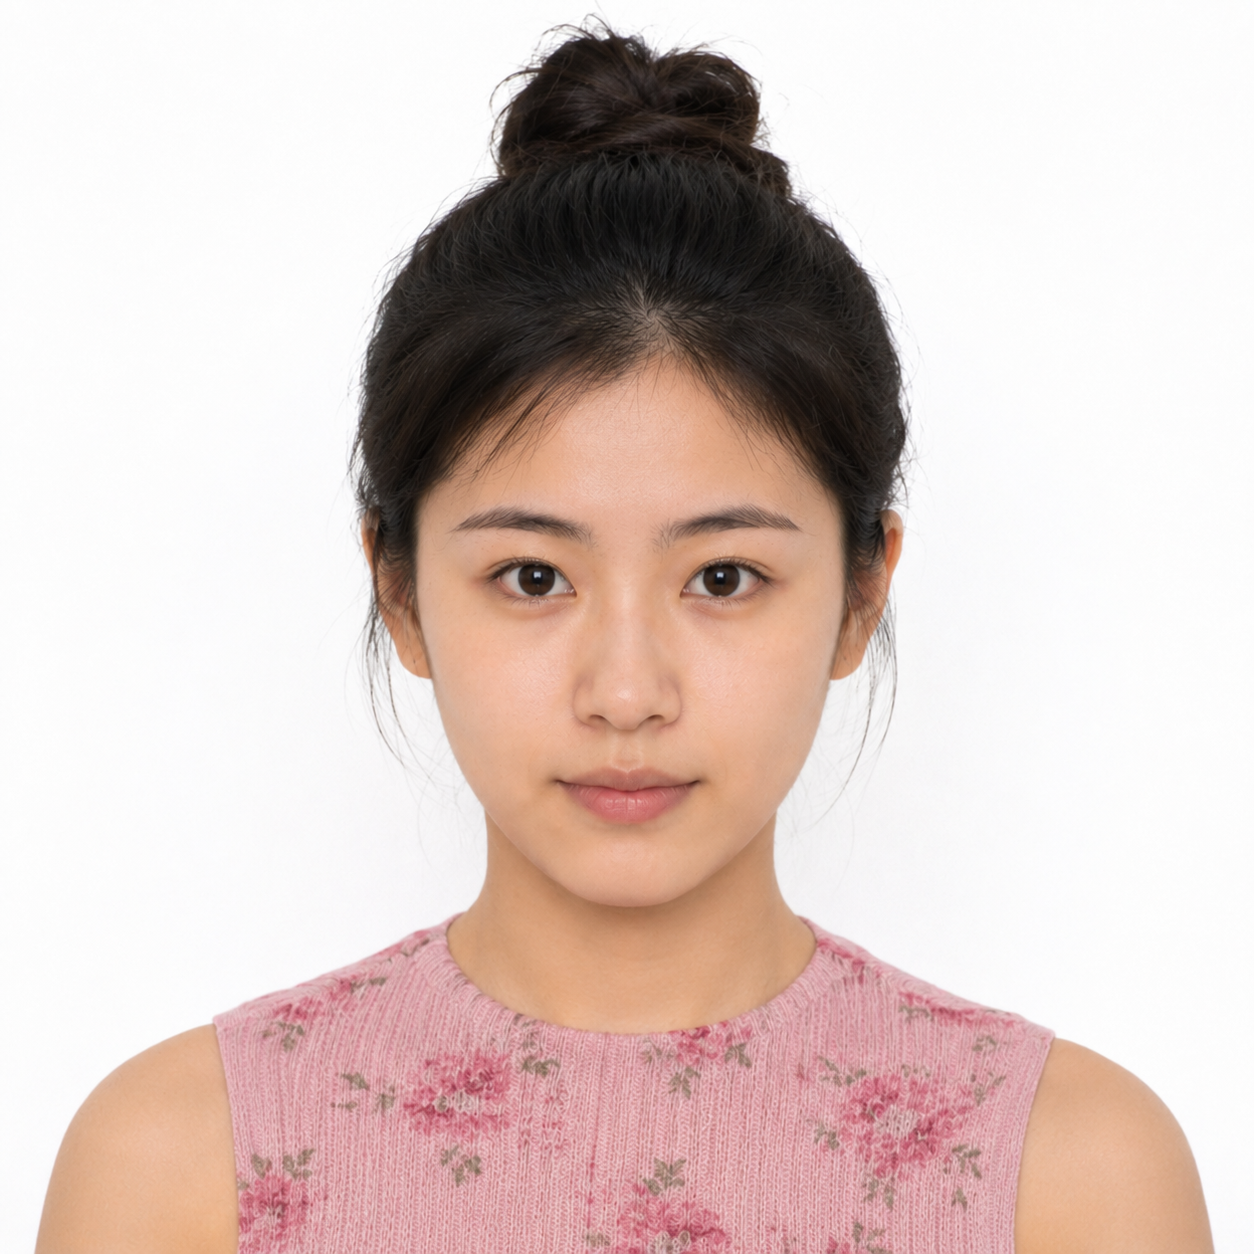
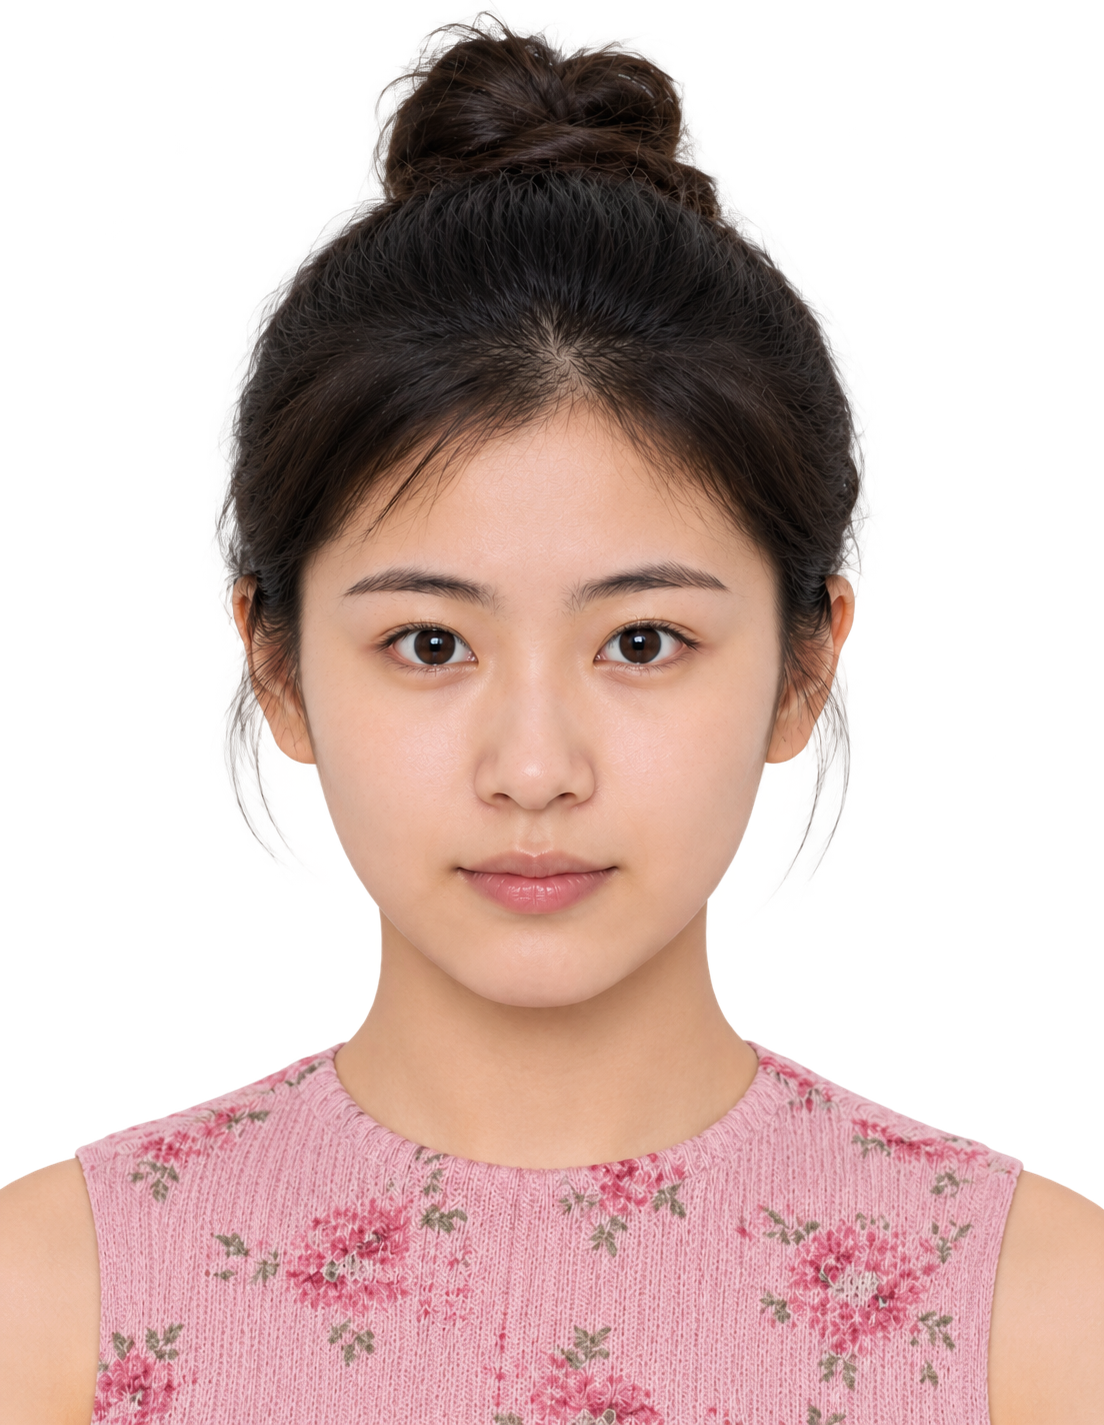
修阿凱對話(kc:「阿凱的對話很怪」)——查出街上機車行那具阿凱跟教室座位那具共用同一份 talkToKai(),街上專用的「新面孔」+「指了指旁邊那台車」台詞原封不動搬進教室,教室裡沒有車、他也早就是同班同學不是新面孔。拆成教室/街上兩份台詞(靠 MODE==='indoor' 分流),人物設定跟伏筆不變,只改場景描述——教室版把車換成手機裡的改管影片/桌下轉的螺絲起子。
Claude-Session: https://claude.ai/code/session_01BDMEXXwWZh5tUEtDpseEHP

Changed region(s): [[0.0, 0.0, 1.0, 1.0], [0.4004, 0.7464, 0.4312, 0.7775]]

diff --git a/prototypes/game.html b/prototypes/game.html
@@ -572,7 +572,7 @@
 </div>
 
 <div id="keys"><b>WASD</b> 走　<b>Q E</b> 轉相機（街上）　<b>Shift</b> 跑　<b>空白</b> 互動</div>
-<div id="bar"><button class="tool" onclick="location.reload()">重來</button><button class="tool" onclick="debugSkipDays(7)">+7天</button><button class="tool" onclick="debugGotoTemple()">跳廟口</button><button class="tool" onclick="debugGotoBusStop()">跳公車站</button><button class="tool" onclick="debugCallMoto()">叫機車</button><button class="tool" onclick="debugAxiaRideToggle()">阿霞上/下車</button><button class="tool" onclick="__dbg.tweakPassengerSeat()">後座滑桿</button><button class="tool" onclick="debugAxiaReset()">阿霞重置</button></div>
+<div id="bar"><button class="tool" onclick="location.reload()">重來</button><button class="tool" onclick="debugSkipDays(7)">+7天</button><button class="tool" onclick="debugGotoSchool()">跳學校</button></div>
 <div id="fps">—</div>
 
 <script src="lib/character.js"></script>
@@ -1380,23 +1380,14 @@ document.getElementById('invClose').onclick = closeInventory;
    掛的話按鈕點下去會是「debugSkipDays is not defined」。 */
 function debugSkipDays(n){ day += n; syncHUD(); }
 window.debugSkipDays = debugSkipDays;
-/* 跳廟口按鈕(2026-08-31,kc:「記住 我不會打這種指令 再重來旁邊加按鈕
-   跳轉畫面」)——跟上面 +7天 同一個坑,不要再叫 kc 開 devtools 打
-   __dbg.at(...)。點了直接把角色傳到廟口(YUAN/FAT 那個定點),街上/室內
-   都能點。⚠ 室內時不能先呼叫 leaveIndoor() 再自己 set position——
-   leaveIndoor() 內部是 fade()(淡出淡入,非同步),它自己的 callback
-   最後也會把 hero 位置設到 returnTo.x/z,晚於這裡同步執行的 set(),
-   會把這裡指定的座標蓋回超商門口。改成先把 returnTo 改成廟口座標,
-   讓 leaveIndoor() 自己那套流程把人放到正確位置,不用跟它搶。 */
-function debugGotoTemple(){
-  if(MODE === 'indoor'){
-    returnTo.x = -6; returnTo.z = -84;
-    leaveIndoor();
-  } else {
-    hero.group.position.set(-6, .3, -84);
-  }
-}
-window.debugGotoTemple = debugGotoTemple;
+/* 跳學校按鈕(2026-09-02,kc:「要跳去學校啊講過很多次了」+「下面的按鈕
+   可以刪掉大部分了都完成了」)——廟口/公車站/阿霞那組測試按鈕對應的
+   功能都已經定案收工,換成現在還在測的學校。學校是室內場景,不是廟口/
+   公車站那種街上定點,直接借 __dbg.warp('school')(warpIntoPlace() 那條
+   略過走路/淡出動畫的直達路徑,見那則筆記),一次到位站進教室,順便會
+   跑到 story-school.js day5/21 節點檢查(跟真的走進校門同一套邏輯)。 */
+function debugGotoSchool(){ toast(__dbg.warp('school'), 2000); }
+window.debugGotoSchool = debugGotoSchool;
 const fmtTime = m => String((m/60|0)%24).padStart(2,'0') + ':' + String(m%60).padStart(2,'0');
 function syncHUD(){
   set('pMoney', '$' + ST.money, null);
@@ -1630,7 +1621,7 @@ const PORTRAIT_IMGS = {
      見跟 kc 的對話紀錄),改回跟店員/爸媽同一套 AI 生真人照片。阿仁刻意
      生成光頭,呼應他在遊戲裡本來就是禿頭(骨架 m3/Brian 沒有 Hair mesh),
      不是巧合。 */
-  mei:    loadPortraitImg('../assets/bg/mei-portrait.png?v=1'),
+  mei:    loadPortraitImg('../assets/bg/mei-portrait.png?v=2'),
   aren:   loadPortraitImg('../assets/bg/aren-portrait.png?v=1'),
   kai:    loadPortraitImg('../assets/bg/kai-portrait.png?v=1'),
   /* 刺青店老闆(2026-08-28)——kc 丟的真人照片,跟 tattooMasterIndoor 那具
@@ -9113,15 +9104,33 @@ const KAI_CHECKIN_LINES = {
   20: ['「東西快齊了,」他把玩著手上的扳手,「你等我消息就對了。」',
        '他這幾天話變少,見你只是點個頭,眼神卻藏不住興奮。']
 };
+/* 教室版台詞(2026-09-02,kc:「阿凱的對話很怪」)——查出來是街上機車行那具
+   跟教室座位那具共用同一份 talkToKai(),街上那句「新面孔」+「指了指停在
+   旁邊那台車」原封不動搬進教室,教室裡沒有車、他也早就是同班同學不是新
+   面孔,對話對不上場景。分成教室/街上兩份,人物設定(改管/醞釀「一票大的」
+   那條 day13 排氣管幫的伏筆)不變,只改場景描述——教室版把「車」換成手機
+   裡的改管影片/口袋裡的工具,街上版維持原樣不動。KAI.talked 還是同一個
+   旗標(同一個人,只認識一次),只是哪邊先講到話就用哪邊的台詞。 */
+const KAI_CHECKIN_LINES_SCHOOL = {
+  0: ['他趴在桌上，耳機開很大聲，你瞄到螢幕在放引擎聲的影片。'],
+  10: ['他湊過來,手機螢幕是一段改管影片:「嘿嘿,準備幹一票大的,看好了。」',
+       '「最近在盤一個東西,」他壓低聲音,眼睛瞄了一下講台,「到時候你就知道了。」'],
+  20: ['「東西快齊了,」他小聲說,眼神卻藏不住興奮。',
+       '他這幾天話變少,見你只是點個頭,手指在桌下轉著一支螺絲起子。']
+};
 function kaiCheckinLines(){
   const stages = [20, 10, 0];
   const s = stages.find(d => day >= d) ?? 0;
-  return KAI_CHECKIN_LINES[s];
+  return (MODE === 'indoor' ? KAI_CHECKIN_LINES_SCHOOL : KAI_CHECKIN_LINES)[s];
 }
 function talkToKai(){
   if(!KAI.talked){
     KAI.talked = true;
-    say('kai', '「喔,新面孔。」\n\n他指了指停在旁邊那台車。\n\n「改管改到這樣,你聽聽這聲音。」');
+    if(MODE === 'indoor'){
+      say('kai', '他抬頭看你一眼,嘴角勾了一下。\n\n「聽說你也常去中華路那間車行晃?」\n\n「改天去,我車聲你一定要聽聽。」');
+    } else {
+      say('kai', '「喔,新面孔。」\n\n他指了指停在旁邊那台車。\n\n「改管改到這樣,你聽聽這聲音。」');
+    }
     return;
   }
   const lines = kaiCheckinLines();
@@ -10399,25 +10408,12 @@ window.__dbg = {
     return out;
   }
 };
-/* 阿霞測試按鈕(2026-09-01,kc:「你來啊我講幾次了 給我記住」——console
-   command 這件事已經講過兩次了(見 feedback_no_console_commands_add_buttons
-   那則記憶),這輪我又犯了第三次,叫他打 __dbg.callMoto()/axiaReset() 等
-   一串指令。補按鈕修正,不再讓他自己開 devtools 打字。跟 debugSkipDays/
-   debugGotoTemple 同一套「window.debugXxx 包一層,inline onclick 才呼叫
-   得到」寫法,內部還是呼叫 __dbg 裡已經寫好的邏輯,不重複一份。 */
-function debugGotoBusStop(){
-  if(MODE === 'indoor'){ returnTo.x = -36; returnTo.z = 96; leaveIndoor(); }
-  else hero.group.position.set(-36, .3, 96);
-}
-window.debugGotoBusStop = debugGotoBusStop;
-function debugCallMoto(){ toast(__dbg.callMoto(), 2400); }
-window.debugCallMoto = debugCallMoto;
-function debugAxiaRideToggle(){
-  toast(axiaRiding ? __dbg.axiaTestStop() : __dbg.axiaTestRide(), 2400);
-}
-window.debugAxiaRideToggle = debugAxiaRideToggle;
-function debugAxiaReset(){ toast(__dbg.axiaReset(), 2000); }
-window.debugAxiaReset = debugAxiaReset;
+/* 廟口/公車站/阿霞那組測試按鈕(2026-08-31~09-01)2026-09-02 拿掉——
+   kc:「下面的按鈕可以刪掉大部分了都完成了」,對應功能都已經定案收工,
+   #bar 換成現在還在測的「跳學校」(見上面 debugGotoTemple 那個位置改名
+   debugGotoSchool 的筆記)。底下 __dbg.callMoto()/axiaTestRide()/
+   axiaTestStop()/axiaReset() 這些邏輯本身沒刪,只是拿掉包成按鈕的那層,
+   之後真要現場測還是能透過 __dbg 呼叫。 */
 </script>
 </body>
 </html>
